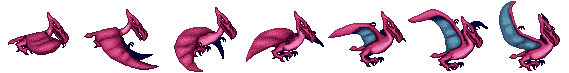
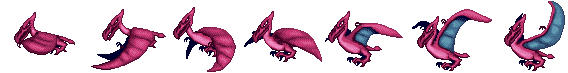
Debug Enemy Item 100%

diff --git a/DinoisEvo01/Stage.cpp b/DinoisEvo01/Stage.cpp
@@ -25,6 +25,12 @@ void Stage::run(float deltaTime)
 		enemy.Update(deltaTime);
 		enemy.CheckCollision(playerhitbox.GetGlobalBounds());
 		enemy.UpdatePosition(player.Getposition(), player.GetOrigin());
+		if (enemy.Collosion() == true) { life--; }
+
+		Ob01.Run(player.Getposition());
+		Ob01.UpdateLife(life);
+		Ob01.Checkcollision(playerhitbox.GetGlobalBounds());
+		if (Ob01.Collision() == true) { life--; }
 
 		item.Check(player.Getposition(), itemuse);
 		item.Update(player.Getposition(), player.GetOrigin(), player.GetGlobalBounds(), token.GetGlobleBoundsTokenMeat(), token.GetGlobleBoundsTokenVeggie(), Ob01.GetGlobleBounds(), distance, 5);
@@ -36,18 +42,24 @@ void Stage::run(float deltaTime)
 
 		//UseItem//
 		//CheckERROR//
-		//printf("%d", item.Use());
+		//printf("%d\n", item.Use());
 		if (item.Use() == 1) { itemuse = 1; }
 		if (item.Use() == 2) { itemuse = 2; }
 		if (item.Use() == 0) { itemuse = 0; }
-		//printf("%d", itemuse);
+		//printf("%d\n", itemuse);
 		if (itemuse == 1) { token.Magnet(player.Getposition()); }
 		if (itemuse == 2) { life++; immortal = true; }
-		if (playerhitbox.GetGlobalBounds().intersects(Ob01.GetGlobleBounds()) && itemuse == 2 && immortal == true) 
-			{ itemuse = 3; }
-		if (!playerhitbox.GetGlobalBounds().intersects(Ob01.GetGlobleBounds()) && itemuse == 3 && immortal == true)
-			{ itemuse = 0; }
-		if (life > 1 && itemuse == 0) { life = 1;  immortal = false; }
+		/*if (playerhitbox.GetGlobalBounds().intersects(Ob01.GetGlobleBounds()) && itemuse == 2 && immortal == true)
+		{ itemuse = 3; }
+		//if (!playerhitbox.GetGlobalBounds().intersects(Ob01.GetGlobleBounds()) && itemuse == 3 && immortal == true)
+		//{ itemuse = 0; }
+		if (enemy.Collostion() == true && itemuse == 2 && immortal == true)
+		{ itemuse = 3; }
+		//if (enemy.Collostion() == false && itemuse == 3 && immortal == true)
+		//{ itemuse = 0; } */
+		//printf("%d\n", itemuse);
+		if (life >= 1 && itemuse == 0) { life = 1;  immortal = false; }
+
 	}
 
 	if (restart.restartStatus() == true)
@@ -57,6 +69,9 @@ void Stage::run(float deltaTime)
 		gameover.Restart();
 		token.Restart();
 		item.Restart();
+		enemy.Restart();
+		itemuse = 0;
+		life = 1;
 	}
 
 		pause.GetPlayerPosition(player.Getposition());
@@ -70,10 +85,6 @@ void Stage::run(float deltaTime)
 			gameover.GetplayerPosition(player.Getposition());
 			gameover.CheckGameOver(Ob01.Getlife());
 		}
-
-		Ob01.Run(player.Getposition());
-		Ob01.UpdateLife(life);
-		Ob01.Checkcollision(playerhitbox.GetGlobalBounds());
 
 		token.Update(playerhitbox.GetGlobalBounds(),player.Getposition());
 		token.CheckOb(Ob01.GetGlobleBounds());

diff --git a/DinoisEvo01/Enemy.cpp b/DinoisEvo01/Enemy.cpp
@@ -9,7 +9,6 @@ Enemy::Enemy(Texture* texture, Vector2u imageCount, float switchTime, float spee
 	enemyTexture.loadFromFile("enemyremovebg.png");
 	enemy.setTexture(texture);
 	enemy.setSize(Vector2f(81.2f,72.0f));
-	deltaTime = clock.restart().asSeconds();
 }
 
 Enemy::~Enemy()
@@ -18,10 +17,16 @@ Enemy::~Enemy()
 
 void Enemy::Update(float deltatime)
 {
+	Vector2f movement(0.0, 0.0);
 	if (showStatus == 2)
 	{
-		enemy.move(speed, 0);
+		movement.x -= deltatime * speed;
 	}
+	else 
+	{
+		movement.x = 0;
+	}
+	enemy.move(movement);
 	animation.Update(row, deltatime, 0);
 	enemy.setTextureRect(animation.uvRect);
 }
@@ -32,6 +37,8 @@ void Enemy::Draw(RenderWindow& window)
 	{
 	window.draw(enemy);
 	}
+	//ChecK ERROR//
+	//printf("Draw Enemy\n");
 	window.draw(enemy);
 }
 
@@ -41,16 +48,18 @@ void Enemy::CheckCollision(FloatRect globleBoundsPlayer)
 	{
 		collision = true;
 	}
+	else collision = false;
 }
 
 void Enemy::UpdatePosition(Vector2f playerPosition, Vector2f playerOrigin)
 {
 	//CheckERROR//
 	//printf("%d", showStatus);
+	//printf("%.2f %.2f \n", enemy.getPosition().x, enemy.getPosition().y);
 	enemy.setOrigin(playerOrigin);
 	int playerPositionint;
 	playerPositionint = playerPosition.x;
-	if (playerPositionint % 1500 <= 100)
+	if (playerPositionint % 1500 <= 100 && show == false)
 	{		
 		show = true;
 		showStatus = 1;
@@ -58,17 +67,22 @@ void Enemy::UpdatePosition(Vector2f playerPosition, Vector2f playerOrigin)
 	if (showStatus == 0)
 	{
 		enemy.setPosition(0, 0);
-		//enemy.setPosition(500, 350);
 	}
-	else if (showStatus == 1)
+	if (showStatus == 1)
 	{
-		enemy.setPosition(playerPosition.x + 400, 700);
+		enemy.setPosition(playerPosition.x + 1000, playerPosition.y - 100);
 		showStatus = 2;
 	}
-	else if (showStatus == 2 && enemy.getPosition().x < playerPosition.x - 400)
+	if (showStatus == 2 && enemy.getPosition().x < playerPosition.x - 400)
 	{
 		show = false;
 		showStatus = 0;
 	}
-	//enemy.setPosition(500, 350);
+	//enemy.setPosition(500, 300);
+}
+
+void Enemy::Restart()
+{
+	showStatus = 0;
+	collision = false;
 }

diff --git a/DinoisEvo01/Token.cpp b/DinoisEvo01/Token.cpp
@@ -120,22 +120,22 @@ void Token::Magnet(Vector2f playerposition)
 		{
 			if (tokenMeat.getPosition().x - (playerposition.x - 350) > 0)
 			{
-				tokenMeat.move(-0.2, 0);
+				tokenMeat.move(-10, 0);
 			}
 			if (tokenMeat.getPosition().x - (playerposition.x - 350) < 0)
 			{
-				tokenMeat.move(0.2, 0);
+				tokenMeat.move(10, 0);
 			}
 		}
 		if ((tokenMeat.getPosition().x - (playerposition.x - 350)) < (tokenMeat.getPosition().y - (playerposition.y + 105)))
 		{
 			if (tokenMeat.getPosition().y - (playerposition.y + 105) > 0)
 			{
-				tokenMeat.move(0, -0.2);
+				tokenMeat.move(0, -10);
 			}
 			if (tokenMeat.getPosition().y - (playerposition.y + 105) < 0)
 			{
-				tokenMeat.move(0, 0.2);
+				tokenMeat.move(0, 10);
 			}
 		}
 	}
@@ -148,22 +148,22 @@ void Token::Magnet(Vector2f playerposition)
 		{
 			if (tokenVeggie.getPosition().x - (playerposition.x - 350) > 0)
 			{
-				tokenVeggie.move(-0.2, 0);
+				tokenVeggie.move(-10, 0);
 			}
 			if (tokenVeggie.getPosition().x - (playerposition.x - 350) < 0)
 			{
-				tokenVeggie.move(0.2, 0);
+				tokenVeggie.move(10, 0);
 			}
 		}
 		if ((tokenVeggie.getPosition().x - (playerposition.x - 350)) < (tokenVeggie.getPosition().y - (playerposition.y + 105)))
 		{
 			if (tokenVeggie.getPosition().y - (playerposition.y + 105) > 0)
 			{
-				tokenVeggie.move(0, -0.2);
+				tokenVeggie.move(0, -10);
 			}
 			if (tokenVeggie.getPosition().y - (playerposition.y + 105) < 0)
 			{
-				tokenVeggie.move(0, 0.2);
+				tokenVeggie.move(0, 10);
 			}
 		}
 	}

diff --git a/DinoisEvo01/Obstruction.cpp b/DinoisEvo01/Obstruction.cpp
@@ -25,7 +25,7 @@ void Obstruction::Draw(RenderWindow& window)
 	
 }
 
-bool Obstruction::Checkcollision(FloatRect player)
+void Obstruction::Checkcollision(FloatRect player)
 {
 	if (obstrutction.getGlobalBounds().intersects(player))
 	{
@@ -36,7 +36,11 @@ bool Obstruction::Checkcollision(FloatRect player)
 	}
 	else collision = false;
 
-	return collision;
+	//Check ERROR//
+	if (collision == true)
+	{
+		//printf("Now Collision!");
+	}
 }
 
 void Obstruction::Run(Vector2f playerPosition)
@@ -60,4 +64,5 @@ void Obstruction::Restart()
 	obstrutction.setSize(size);
 	obstrutction.setPosition(position);
 	life = 1;
+	collision = false;
 }

diff --git a/DinoisEvo01/Enemy.h b/DinoisEvo01/Enemy.h
@@ -11,8 +11,9 @@ public:
 	void Update(float deltatime);
 	void Draw(RenderWindow& window);
 	void CheckCollision(FloatRect globleBoundsPlayer);
-	bool Collostion() { return collision; };
+	bool Collosion() { return collision; };
 	void UpdatePosition(Vector2f playerPosition, Vector2f playerOrigin);
+	void Restart();
 
 private:
 	RectangleShape enemy;
@@ -20,13 +21,11 @@ private:
 	
 	unsigned int row;
 	float speed;
-	int frequancy;
 
 	int showStatus = 0;
 	bool show = false;
 	bool collision = false;
 
-	float deltaTime = 0.0f;
 	Clock clock;
 };
 

diff --git a/DinoisEvo01/Main.cpp b/DinoisEvo01/Main.cpp
@@ -37,10 +37,11 @@ int main()
 	//Enemy
 	Texture enemyTexture;
 	enemyTexture.loadFromFile("enemyremovebg.png");
-	Stage stage01(&playerTexture01 , Vector2u(8, 2), 0.05f, 200.0f,320.f, 8000, &BG01Texture,&Cactus01Texture,5,7,&enemyTexture, Vector2u(7,1), 0.1f,150.0f);
+	Stage stage01(&playerTexture01 , Vector2u(8, 2), 0.05f, 200.0f,320.f, 8000, &BG01Texture,&Cactus01Texture,5,7,&enemyTexture, Vector2u(7,1), 0.1f,100.0f);
 
 	float deltaTime = 0.0f;
 	Clock clock;
+	window.setFramerateLimit(120);
 
 	while (window.isOpen())
 	{

diff --git a/DinoisEvo01/Obstruction.h b/DinoisEvo01/Obstruction.h
@@ -9,13 +9,15 @@ public:
 	~Obstruction();
 
 	void Draw(RenderWindow& window);
-	bool Checkcollision(FloatRect player);
+	void Checkcollision(FloatRect player);
 	void Run(Vector2f playerPosition);
 	void UpdateLife(int life);
 	int Getlife() { return life; };
 	Vector2f GetPosition() { return obstrutction.getPosition(); };
 	FloatRect GetGlobleBounds() { return obstrutction.getGlobalBounds(); };
 	void Restart();
+	bool Collision() { return collision; };
+
 private:
 	Vector2f size;
 	Vector2f position;

diff --git a/DinoisEvo01/Mainmenu.cpp b/DinoisEvo01/Mainmenu.cpp
@@ -42,12 +42,12 @@ Mainmenu::~Mainmenu()
 
 void Mainmenu::Run()
 {
-	if (this->menuBGtextNG.getGlobalBounds().contains(mousePosF))
+	if (this->menuBGtextNG.getGlobalBounds().contains(mousePosF) || Keyboard::isKeyPressed(Keyboard::Key::N))
 	{
-		if (Mouse::isButtonPressed(Mouse::Left))
+		if (Mouse::isButtonPressed(Mouse::Left) || Keyboard::isKeyPressed(Keyboard::Key::N))
 		{ 
 			//Checkerror//
-			printf("%d",forChangeWindow);
+			//printf("%d",forChangeWindow);
 			forChangeWindow = 1;
 		}
 	}
